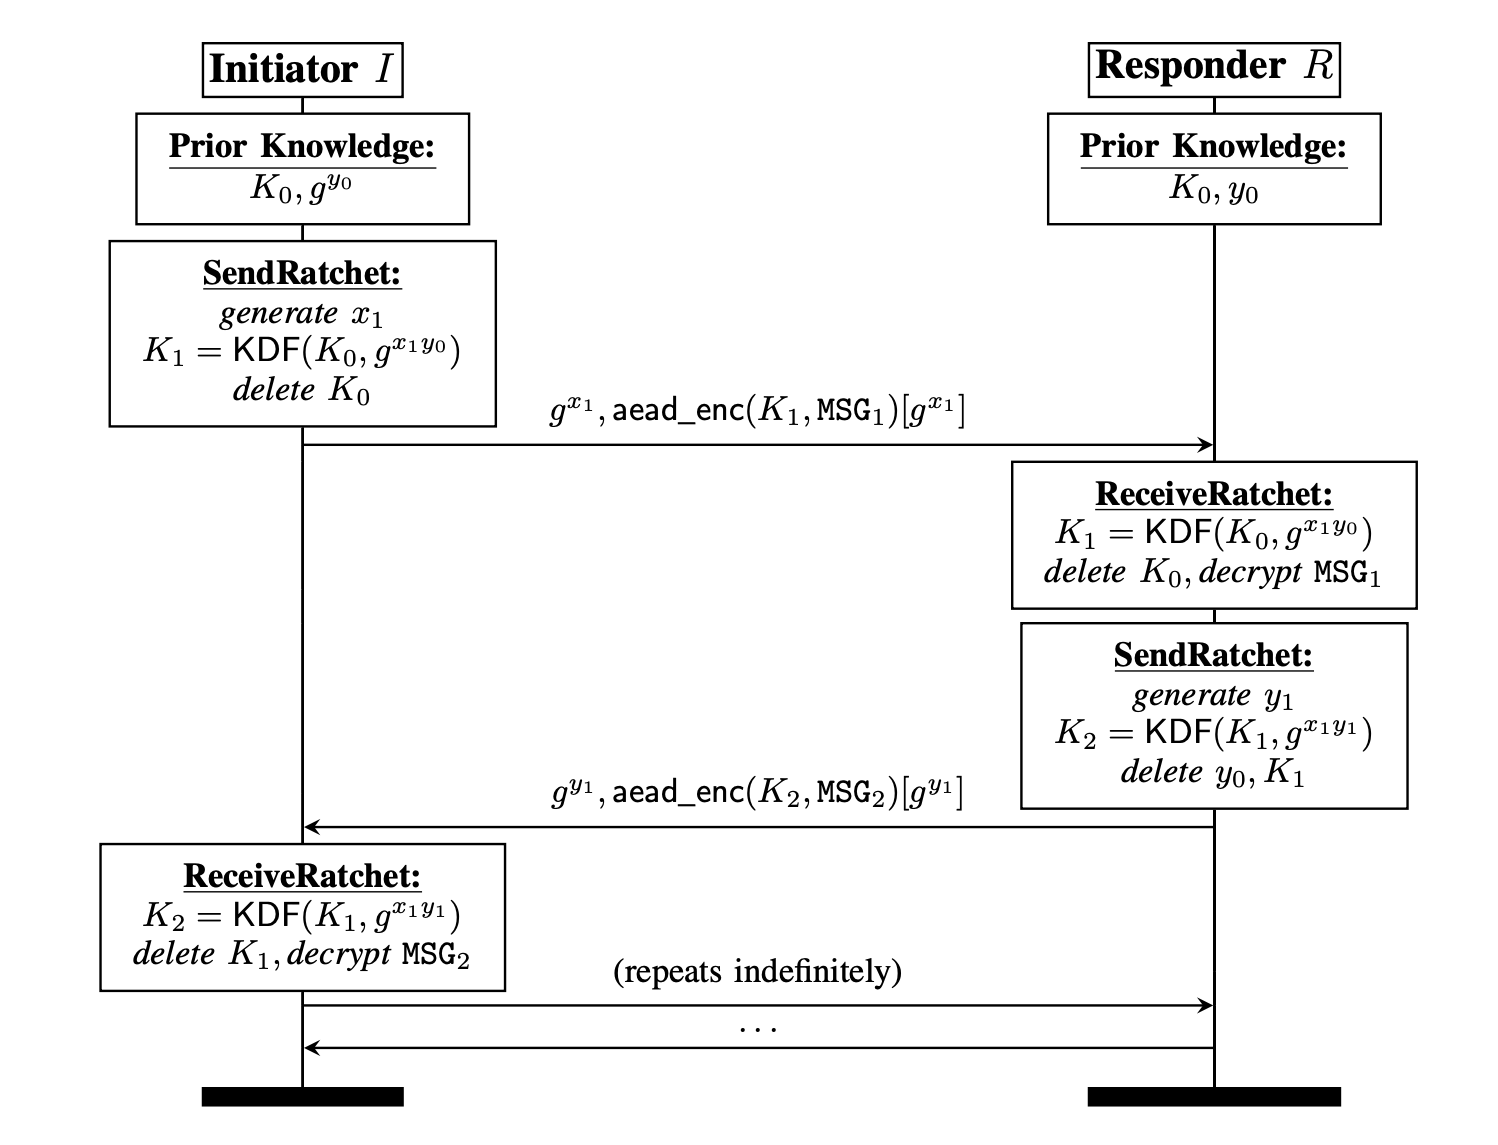
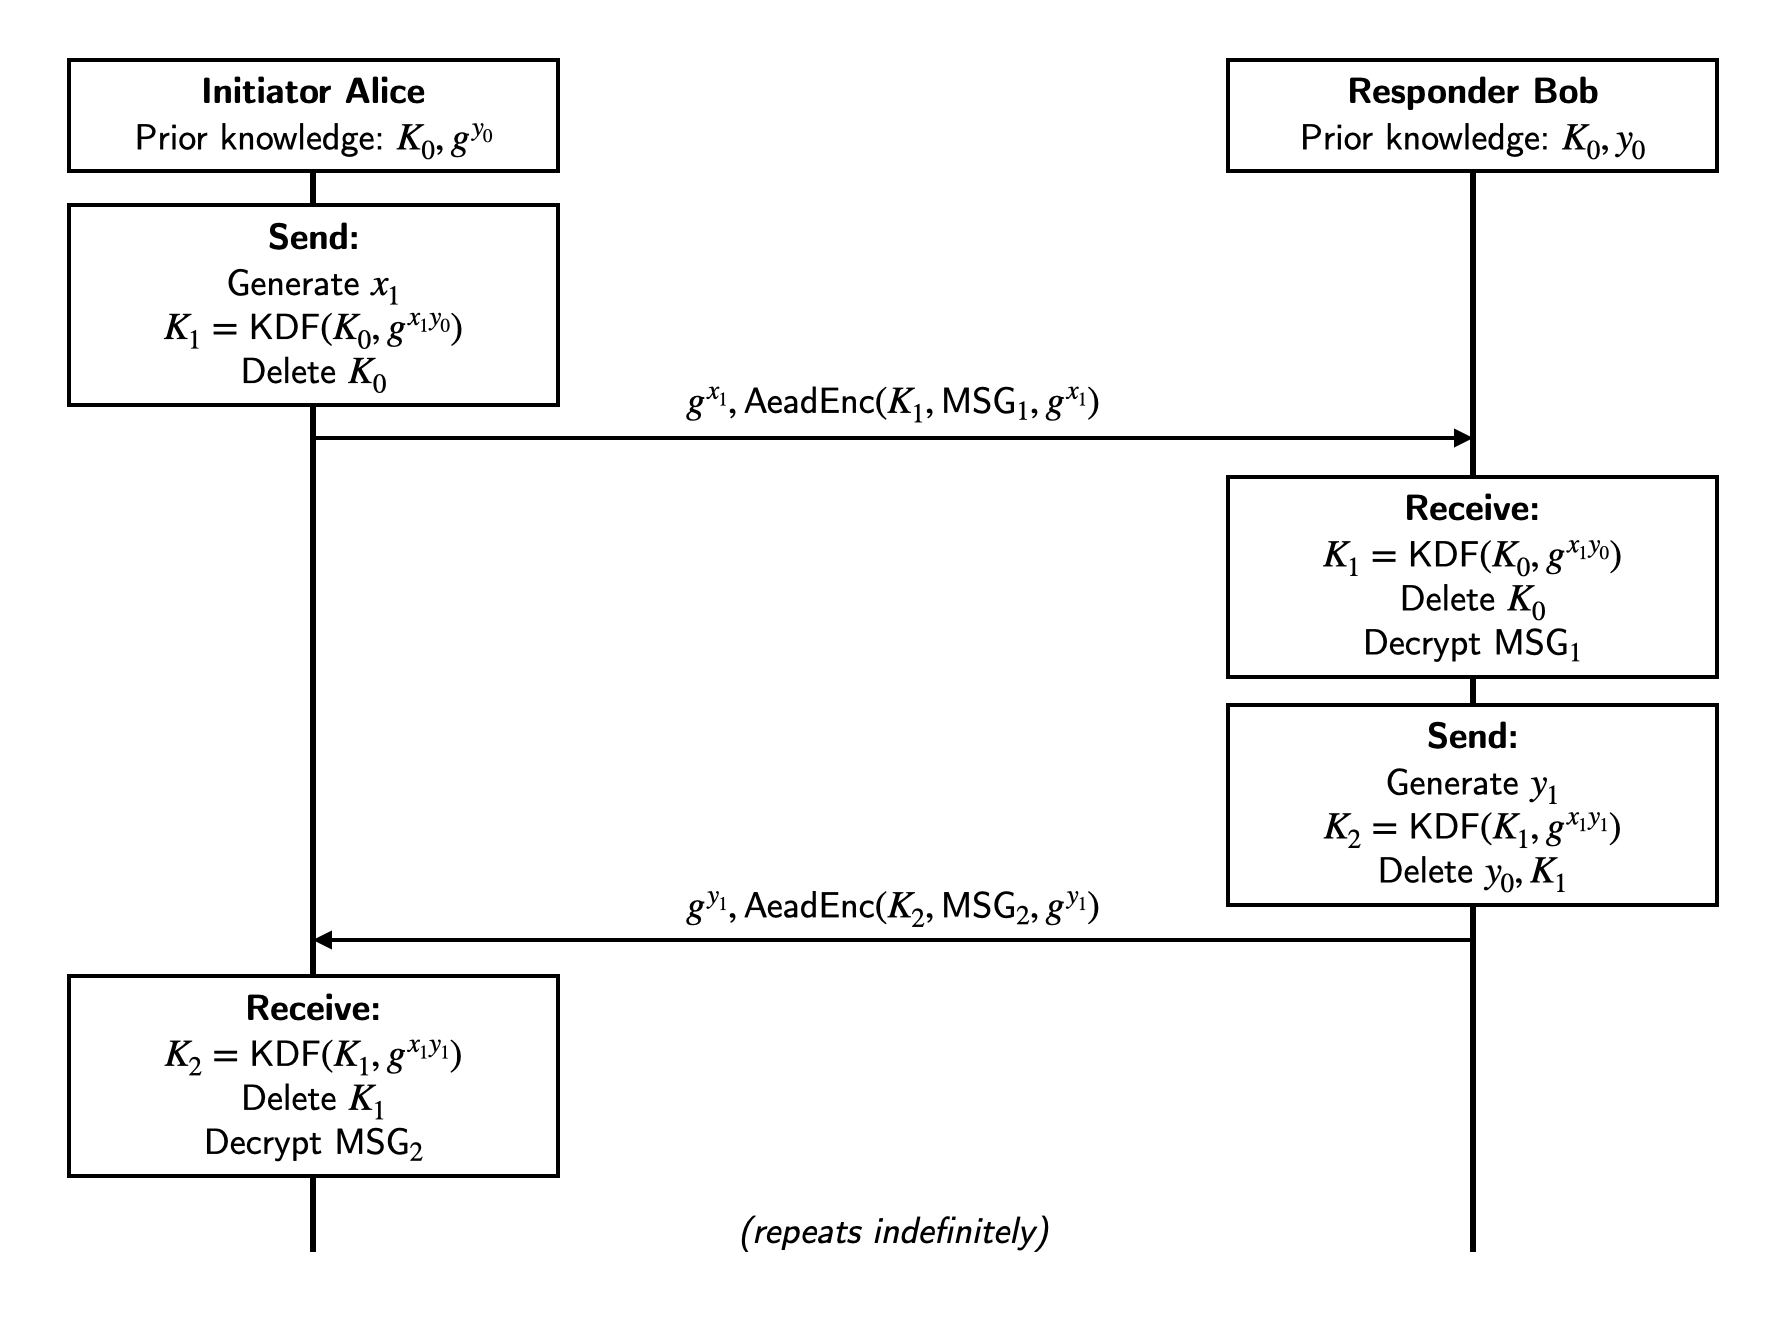
figures

Changed region(s): [[0.0307, 0.0306, 0.9826, 0.9782]]

diff --git a/report/4_casestudy.tex b/report/4_casestudy.tex
@@ -83,18 +83,24 @@ For the sake of readability, we now refer in the remainder of the thesis to our 
 
 \begin{figure}
     \centering
-    \includegraphics[width=0.9\textwidth]{figures/DH-ratchet-modified.png}
-    \caption{Our \emph{ratcheting protocol}, a modified protocol based on the Diffie-Hellman Ratchet.}
+    \includegraphics[width=1.0\textwidth]{figures/DH-ratchet-modified.png}
+    \caption{Our \emph{ratcheting protocol}: a modified protocol based on the Diffie-Hellman Ratchet, in which the decryption key is computed using the previous DH public key instead of the just-received one.
+    Here, \texttt{AeadEnc(K, MSG, ad)} refers to the AEAD encryption of the message \texttt{MSG} with the key \texttt{K} and the associated data \texttt{ad}. \texttt{KDF(a, b)} refers to a key derivation function that derives a new key from two inputs \texttt{a} and \texttt{b}.
+    Green bubbles are linked to versioned values, and the numbers in the bubble indicate the versions in which the value can be read from the participant's point of view. For example, the top-left bubble indicates that $x_0$ can be read in versions $0$ and $1$ of Alice's current session.}
     \label{fig:dh-ratchet-modified}
 \end{figure}
 
 \begin{figure}
     \centering
-    \includegraphics[width=0.9\textwidth]{figures/DH-ratchet-modified-first.png}
-    \caption{First communication round after the handshake.}
+    \includegraphics[width=1.0\textwidth]{figures/DH-ratchet-modified-first.png}
+    \caption{First communication round happening after the IKpsk2 handshake.
+    It uses the shared keys $K_{IR}$ and $K_{RI}$ established by the handshake to authenticate the DH public keys $g^{x_0}$ and $g^{y_0}$ of the initiator and responder respectively.
+    This exchange of public keys is necessary to initiate the ratcheting protocol, as it provides the required prior knowledge.
+    \texttt{AeadEnc(K, MSG, ad)} refers to the AEAD encryption of the message \texttt{MSG} with the key \texttt{K} and the associated data \texttt{ad}.
+    Like in Figure~\ref{fig:dh-ratchet-modified}, green bubbles are linked to versioned values, and the numbers in the bubble indicate the versions in which the value can be read from the participant's point of view.
+    }
     \label{fig:dh-ratchet-modified-first}
 \end{figure}
-\todo{Change the figures~\ref{fig:dh-ratchet-modified} and~\ref{fig:dh-ratchet-modified-first} to use cleaner ones, and modify the caption to explain the figures more in detail}
 
 The intuition behind the ratcheting protocol is that we replicate the DH Ratchet protocol, but instead of using the just-received public key, we use the public key received in the previous message to compute the shared secret.
 This first requires us to modify the prior knowledge of the participants. Now, in addition to the initial shared secret $K_0$, both participants need to know the other's DH public key and their (versioned) DH private key.
@@ -108,7 +114,7 @@ Upon reception of this message by the responder, instead of using the public key
 This allows the responder to obtain $K_1$, decrypt the message, and obtain the associated message invariant containing information about the new public key $g^{x_1}$.
 Then, $g^{x_1}$ is used just after by the responder to compute the next shared secret $K_2$, which is used to encrypt the next message sent to the initiator.
 The same observations can be made upon reception of the second message by the initiator, and all subsequent messages. 
-\todo{Depending on how precise the final Figure~\ref{fig:dh-ratchet-modified} is, I may need to explain the difference between the first message and the others: we do not delete the unversioned key $K_0$}
+% \todo{Depending on how precise the final Figure~\ref{fig:dh-ratchet-modified} is, I may need to explain the difference between the first message and the others: we do not delete the unversioned key $K_0$}
 
 This ratcheting protocol is therefore simpler to verify than the DH Ratchet and aims to provide similar security properties.
 Intuitively, forward secrecy still holds because past communication keys are deleted and cryptographically not retrievable from long-term secrets and current communication keys.

diff --git a/report/3_design.tex b/report/3_design.tex
@@ -45,15 +45,16 @@ It is presented in Figure~\ref{fig:dh-ratchet}.
 
 \begin{figure}
     \centering
-    \includegraphics[width=0.9\textwidth]{figures/DH-ratchet.png}
-    \caption{Diffie-Hellman Ratchet protocol.}
+    \includegraphics[width=1.0\textwidth]{figures/DH-ratchet.png}
+    \caption{The Diffie-Hellman (DH) Ratchet~\cite{perrin2016double} is a continuous key agreement protocol between two participants, Alice and Bob, which repeatedly performs Diffie-Hellman key exchanges to encrypt each message with a new key.
+    Here, \texttt{AeadEnc(K, MSG, ad)} refers to the AEAD encryption of the message \texttt{MSG} with the key \texttt{K} and the associated data \texttt{ad}. \texttt{KDF(a, b)} refers to a key derivation function that derives a new key from two inputs \texttt{a} and \texttt{b}.
+    This figure is inspired by a similar figure from the DY* paper~\cite{bhargavan2021text}.}
     \label{fig:dh-ratchet}
 \end{figure}
-\todo{Change the figure to use my own protocol figure, and modify the caption to explain the figure more in detail}
 
 The protocol starts with an established communication key $K_0$, mutually shared by both participants.
 The initiator uses the responder's public key and a newly generated secret key to compute a shared Diffie-Hellman secret.
-This new shared secret and $K_0$ are input to a key derivation function to derive a new communication key $K_1$, which is used to encrypt a payload, i.e. \texttt{MSG\textsubscript{1}}.
+This new shared secret and $K_0$ are input to a key derivation function (KDF) to derive a new communication key $K_1$, which is used to encrypt a payload, i.e. \texttt{MSG\textsubscript{1}}.
 This step of generating a new key from the previous one is called a \emph{ratcheting step}.
 Behind this name, there is the idea of a ratchet, which one could turn in one direction to generate new keys, but that cannot be turned back, meaning that previous keys cannot be derived from the current one.
 Then, $K_1$ is used to encrypt the message sent to the responder, accompanied by the initiator's new DH public key $g^{x_1}$.
@@ -628,7 +629,6 @@ This means that it could be converted to the next version infinitely with the \t
 Although it works, converting this value for each version would be a verification burden in practice.
 This is why we offer an additional library function, provided in Figure~\ref{lst:guard-from-unversioned-receipt}, which checks if a value associated with a receipt is unversioned (lines 3-4), and if so returns the consumed \texttt{guard} permission (line 5).
 This conceptually removes the corresponding values from our deletion tracking mechanism.
-\todo{Weird to have a single word on the next page.}
 
 \begin{figure}
     \begin{gobra}
